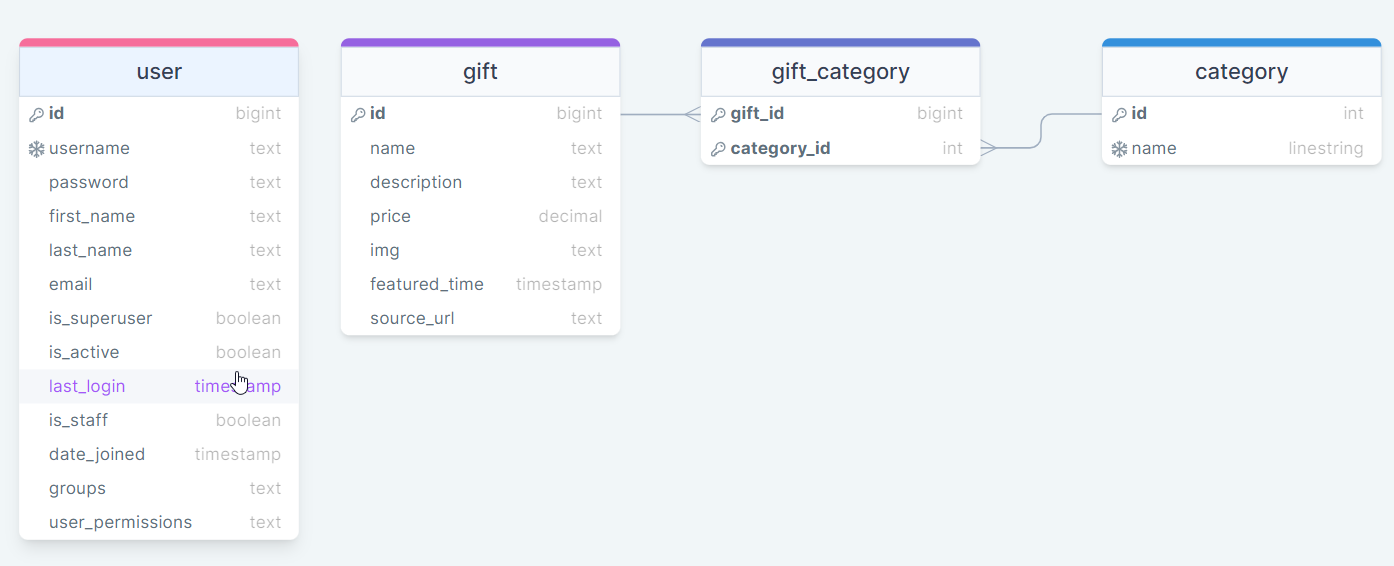
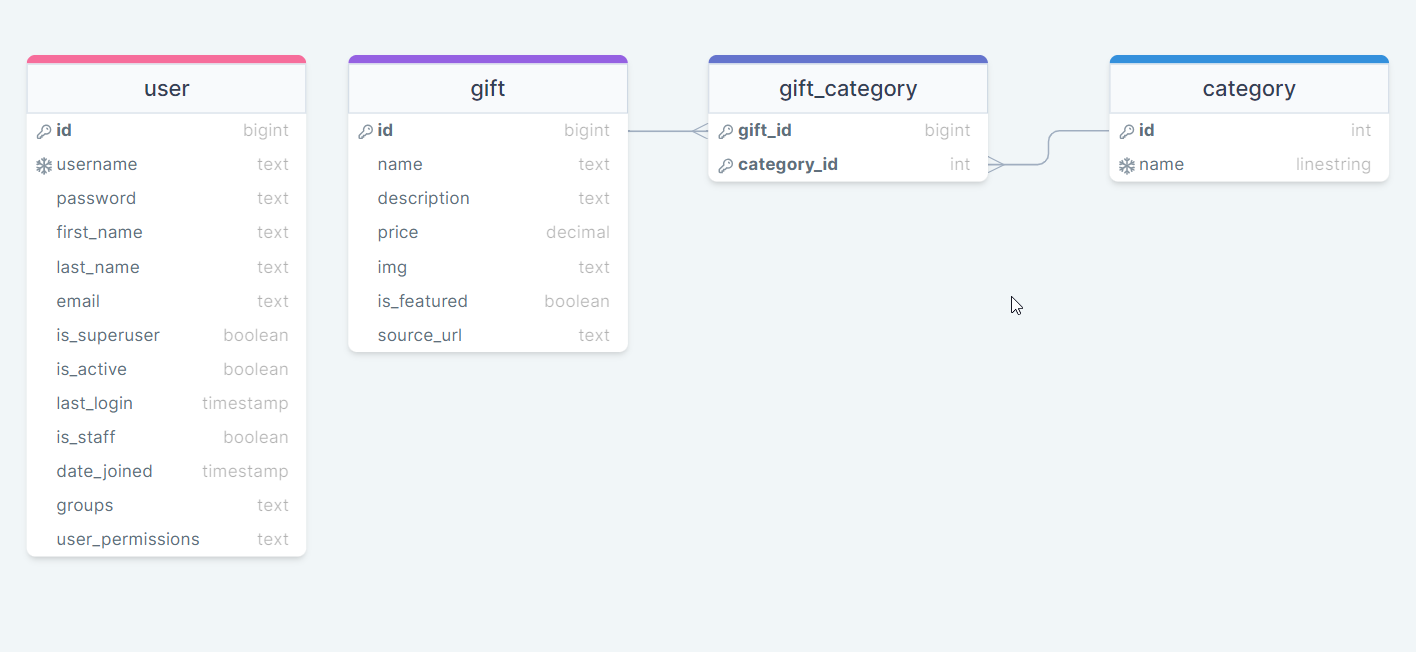
featured gifts backend ready

diff --git a/giftcompare/gifts/views.py b/giftcompare/gifts/views.py
@@ -4,10 +4,12 @@ from .models import Gift
 from .serializers import GiftSerializer
 from rest_framework import status, permissions
 from giftcompare.permissions import IsAdminOrReadOnly
+from django.db import transaction
 
 
 class GiftList(APIView):
     permission_classes = [IsAdminOrReadOnly]
+
     def get(self, request):
         gifts = Gift.objects.all()
         serializer = GiftSerializer(gifts, many=True)
@@ -41,4 +43,21 @@ class GiftDetail(APIView):
             serializer.save()
             return Response(serializer.data)
         return Response(serializer.errors, status=status.HTTP_400_BAD_REQUEST)
+    
+class FeaturedGiftList(APIView):
+    permission_classes = [IsAdminOrReadOnly]
+
+    def get(self, request):
+        gifts = Gift.objects.filter(is_featured = True)
+        serializer = GiftSerializer(gifts, many=True)
+        return Response(serializer.data)
+        
+    def put(self, request): 
+        with transaction.atomic():
+            gifts = Gift.objects.all()
+            for gift in gifts:
+                gift.is_featured = (gift.pk in request.data)
+                gift.save()
+        return Response(status=status.HTTP_204_NO_CONTENT)
+
     

diff --git a/giftcompare/gifts/migrations/0003_remove_gift_featured_time_gift_is_featured.py b/giftcompare/gifts/migrations/0003_remove_gift_featured_time_gift_is_featured.py
@@ -1,0 +1,22 @@
+# Generated by Django 5.0.3 on 2024-03-29 02:48
+
+from django.db import migrations, models
+
+
+class Migration(migrations.Migration):
+
+    dependencies = [
+        ('gifts', '0002_alter_gift_featured_time'),
+    ]
+
+    operations = [
+        migrations.RemoveField(
+            model_name='gift',
+            name='featured_time',
+        ),
+        migrations.AddField(
+            model_name='gift',
+            name='is_featured',
+            field=models.BooleanField(default=False),
+        ),
+    ]

diff --git a/giftcompare/gifts/models.py b/giftcompare/gifts/models.py
@@ -11,7 +11,7 @@ class Gift(models.Model):
     description = models.TextField()
     price = models.DecimalField(max_digits=6, decimal_places=2)
     img = models.URLField()
-    featured_time = models.DateTimeField(null=True)
+    is_featured = models.BooleanField(null=False, default=False)
     source_url = models.URLField()
 
     categories = models.ManyToManyField(

diff --git a/giftcompare/gifts/urls.py b/giftcompare/gifts/urls.py
@@ -1,6 +1,8 @@
 from django.urls import path
 from . import views
+
 urlpatterns = [
+    path('gifts/featured/', views.FeaturedGiftList.as_view() ),
     path('gifts/', views.GiftList.as_view() ),
-    path('gifts/<int:pk>/', views.GiftDetail.as_view() ),
+    path('gifts/<int:pk>/', views.GiftDetail.as_view() )   
 ]

diff --git a/giftcompare/gifts/serializers.py b/giftcompare/gifts/serializers.py
@@ -11,8 +11,5 @@ class GiftSerializer(serializers.ModelSerializer):
             'price',
             'img',
             'source_url',
-            'featured_time'            
+            'is_featured'            
         ]
-        extra_kwargs = {
-            'featured_time': {'allow_null': True},
-        }
